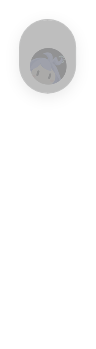
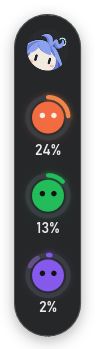
feat: split and merge quota rings during window transitions

diff --git a/src/main.rs b/src/main.rs
@@ -44,6 +44,27 @@ fn arc_percent(percent: f32) -> SharedString {
     format!("M 28 4 A 24 24 0 {large} 1 {end_x:.2} {end_y:.2}").into()
 }
 
+fn arc_trail(start: f32, span: f32) -> SharedString {
+    if !start.is_finite() || !span.is_finite() || span <= 0.0 {
+        return "".into();
+    }
+    let point = |percent: f64| {
+        let angle = (percent * 3.6 - 90.0).to_radians();
+        (28.0 + 24.0 * angle.cos(), 28.0 + 24.0 * angle.sin())
+    };
+    let (x, y) = point(start as f64);
+    if span >= 100.0 {
+        let (mx, my) = point(start as f64 + 50.0);
+        return format!(
+            "M {x:.2} {y:.2} A 24 24 0 0 1 {mx:.2} {my:.2} A 24 24 0 0 1 {x:.2} {y:.2} Z"
+        )
+        .into();
+    }
+    let (ex, ey) = point(start as f64 + span as f64);
+    let large = if span > 50.0 { 1 } else { 0 };
+    format!("M {x:.2} {y:.2} A 24 24 0 {large} 1 {ex:.2} {ey:.2}").into()
+}
+
 fn service(index: usize, visible: bool) -> Service {
     let tint = match index {
         0 => slint::Color::from_rgb_u8(34, 197, 94),
@@ -342,7 +363,7 @@ fn collapse_entry(
     }
     let weak = capsule.as_weak();
     let motion = motion.clone();
-    Timer::single_shot(Duration::from_millis(160), move || {
+    Timer::single_shot(Duration::from_millis(200), move || {
         if motion.0.get() == generation {
             if let Some(c) = weak.upgrade() {
                 let _ = c.hide();
@@ -659,8 +680,13 @@ fn qa_click(window: &slint::Window, x: f32, y: f32) {
 }
 
 #[cfg(debug_assertions)]
-fn qa_entry_frame(window: &slint::Window, name: &str) -> usize {
-    let frame = window.take_snapshot().expect("Entry animation snapshot");
+thread_local! {
+    // Encode after the animation: PNG compression must not delay live samples.
+    static ENTRY_FRAMES: RefCell<Vec<(String, slint::SharedPixelBuffer<slint::Rgba8Pixel>)>> = const { RefCell::new(Vec::new()) };
+}
+
+#[cfg(debug_assertions)]
+fn qa_write_entry_frame(frame: &slint::SharedPixelBuffer<slint::Rgba8Pixel>, name: &str) {
     let mut encoder = png::Encoder::new(
         std::fs::File::create(format!("target/qa-entry-{name}.png")).unwrap(),
         frame.width(),
@@ -673,6 +699,16 @@ fn qa_entry_frame(window: &slint::Window, name: &str) -> usize {
         .unwrap()
         .write_image_data(frame.as_bytes())
         .unwrap();
+}
+
+#[cfg(debug_assertions)]
+fn qa_entry_frame(window: &slint::Window, name: &str) -> usize {
+    let frame = window.take_snapshot().expect("Entry animation snapshot");
+    if std::env::var_os("WACU_QA_ENTRY_MOTION").is_some() {
+        ENTRY_FRAMES.with(|frames| frames.borrow_mut().push((name.into(), frame.clone())));
+    } else {
+        qa_write_entry_frame(&frame, name);
+    }
     // Count the opaque silhouette, excluding transient glow and shadow pixels.
     let width = frame.width() as usize;
     (0..frame.height() as usize)
@@ -721,8 +757,12 @@ fn qa_entry_animation(mini: &MiniWindow, capsule: &CapsuleWindow, settings: &Set
         let heights = Rc::new(RefCell::new(Vec::new()));
         for delay in [40, 60, 100, 120, 160, 200, 260, 300] {
             let c = c.clone();
+            let m = m.clone();
             Timer::single_shot(Duration::from_millis(delay), move || {
                 qa_entry_frame(c.upgrade().unwrap().window(), &format!("open-fx-{delay}"));
+                if delay <= 100 {
+                    qa_entry_frame(m.upgrade().unwrap().window(), &format!("mini-exit-{delay}"));
+                }
             });
         }
         for (delay, name) in [(30, "open-early"), (80, "open-mid"), (225, "open-rest")] {
@@ -742,6 +782,19 @@ fn qa_entry_animation(mini: &MiniWindow, capsule: &CapsuleWindow, settings: &Set
                     if progress > 0.2 && progress < 0.75 {
                         assert!(first > last, "Active ring stages must be staggered");
                     }
+                }
+                let scale = capsule.window().scale_factor();
+                assert!(
+                    capsule.get_shell_height() >= 56.0
+                        && capsule.get_shell_height()
+                            <= capsule.window().size().height as f32 / scale - 24.0 + 0.5
+                );
+                for index in 0..capsule.get_visible_count() {
+                    let spread = capsule.invoke_spread_phase(index);
+                    assert!(
+                        (0.0..=1.04).contains(&spread),
+                        "Spring motion must remain within the window margins"
+                    );
                 }
                 heights
                     .borrow_mut()
@@ -816,10 +869,15 @@ fn qa_entry_close(
         "Collapsing must begin exit animation"
     );
     let heights = Rc::new(RefCell::new(vec![full_height]));
-    for delay in [20, 50, 110, 130] {
+    for delay in [20, 50, 110, 130, 170] {
         let c = c.clone();
+        let m = m.clone();
         Timer::single_shot(Duration::from_millis(delay), move || {
             qa_entry_frame(c.upgrade().unwrap().window(), &format!("close-fx-{delay}"));
+            qa_entry_frame(
+                m.upgrade().unwrap().window(),
+                &format!("mini-return-{delay}"),
+            );
         });
     }
     // Schedule against the actual collapse, so a busy desktop cannot make the
@@ -842,7 +900,7 @@ fn qa_entry_close(
             );
         });
     }
-    Timer::single_shot(Duration::from_millis(200), move || {
+    Timer::single_shot(Duration::from_millis(240), move || {
         let mini = m.upgrade().unwrap();
         assert!(mini.window().is_visible());
         assert!(!c.upgrade().unwrap().window().is_visible());
@@ -1179,7 +1237,9 @@ fn main() -> Result<(), Box<dyn Error>> {
 
     let capsule = CapsuleWindow::new()?;
     capsule.on_render_arc(arc_percent);
+    capsule.on_render_trail(arc_trail);
     let mini = MiniWindow::new()?;
+    mini.on_render_trail(arc_trail);
     mini.set_animated(initial.animations_enabled);
     let menu = EntryMenuWindow::new()?;
     let settings = SettingsWindow::new()?;
@@ -1195,6 +1255,7 @@ fn main() -> Result<(), Box<dyn Error>> {
             .collect::<Vec<_>>(),
     ));
     capsule.set_services(ModelRc::from(model.clone()));
+    mini.set_services(ModelRc::from(model.clone()));
     refresh_model(&model, &capsule, &settings, &initial);
 
     {
@@ -2730,6 +2791,12 @@ fn main() -> Result<(), Box<dyn Error>> {
         });
     }
     slint::run_event_loop()?;
+    #[cfg(debug_assertions)]
+    ENTRY_FRAMES.with(|frames| {
+        for (name, frame) in frames.borrow_mut().drain(..) {
+            qa_write_entry_frame(&frame, &name);
+        }
+    });
     if mini_active && persist_entry_preferences() {
         // Use the logical view saved at the start of a switch: both native
         // windows can still be visible when quitting during the animation.
@@ -2844,6 +2911,18 @@ mod tests {
         assert!(arc_percent(0.5).as_str().ends_with("28.75 4.01"));
         assert!(arc_percent(25.0).as_str().ends_with("52.00 28.00"));
         assert_eq!(arc_percent(100.0), arc_svg(100));
+    }
+
+    #[test]
+    fn moving_ring_trail_wraps_and_retains_clockwise_geometry() {
+        assert_eq!(
+            arc_trail(25.0, 25.0).as_str(),
+            "M 52.00 28.00 A 24 24 0 0 1 28.00 52.00"
+        );
+        assert_eq!(arc_trail(90.0, 20.0), arc_trail(-10.0, 20.0));
+        assert!(arc_trail(10.0, 0.0).is_empty());
+        assert!(arc_trail(f32::NAN, 9.0).is_empty());
+        assert!(arc_trail(10.0, 100.0).as_str().ends_with('Z'));
     }
 
     #[test]

diff --git a/scripts/render-entry-motion.py b/scripts/render-entry-motion.py
@@ -7,6 +7,8 @@ from PIL import Image, ImageDraw, ImageFont
 root = Path(__file__).resolve().parent.parent / "docs" / "screenshots"
 sample = Image.open(root / "entry-open-settled.png").convert("RGBA")
 width, height = sample.size
+mini_sample = Image.open(root / "entry-mini-rest.png").convert("RGBA")
+mini_width, mini_height = mini_sample.size
 font = ImageFont.truetype("C:/Windows/Fonts/msyh.ttc", 12)
 sequence = [(None, 180, "展开")]
 sequence += [(name, duration, "展开") for name, duration in [
@@ -17,21 +19,43 @@ sequence += [(name, duration, "展开") for name, duration in [
 ]]
 sequence += [(name, duration, "收起") for name, duration in [
     ("close-fx-20", 10), ("close-early", 20), ("close-fx-50", 30),
-    ("close-mid", 30), ("close-fx-110", 20), ("close-fx-130", 30),
+    ("close-mid", 30), ("close-fx-110", 20), ("close-fx-130", 40),
+    ("close-fx-170", 30),
 ]]
 sequence += [(None, 450, "收起")]
 frames, durations = [], []
+mini_open = {
+    "open-early": "mini-exit-40", "open-fx-40": "mini-exit-40",
+    "open-fx-60": "mini-exit-60", "open-mid": "mini-exit",
+    "open-fx-100": "mini-exit-100",
+}
+mini_close = {
+    "close-fx-20": "mini-return-20", "close-early": "mini-return-early",
+    "close-fx-50": "mini-return-50", "close-mid": "mini-return-mid",
+    "close-fx-110": "mini-return-110", "close-fx-130": "mini-return-130",
+    "close-fx-170": "mini-return-170",
+}
+capsule_x = mini_width + 48
 for name, duration, label in sequence:
-    canvas = Image.new("RGBA", (width + 48, height + 48), "#101114")
-    ImageDraw.Draw(canvas).text((24, 8), label, font=font, fill="#a1a1aa")
+    canvas = Image.new("RGBA", (mini_width + width + 72, height + 72), "#101114")
+    draw = ImageDraw.Draw(canvas)
+    draw.text((16, 8), label, font=font, fill="#d7dae0")
+    draw.text((16, 32), "Mini", font=font, fill="#a1a1aa")
+    draw.text((capsule_x, 32), "悬浮窗", font=font, fill="#a1a1aa")
+    mini_name = (mini_open.get(name) if name else "mini-rest") if label == "展开" else (mini_close.get(name) if name else "mini-return-rest")
+    if mini_name:
+        mini = Image.open(root / f"entry-{mini_name}.png").convert("RGBA")
+        if mini.size != mini_sample.size:
+            raise ValueError(f"Mini dimensions changed: {mini_name}")
+        canvas.alpha_composite(mini, (16, 56 + round(50 * width / 96 - mini_height / 2)))
     if name:
         frame = Image.open(root / f"entry-{name}.png").convert("RGBA")
         if frame.size != sample.size:
             raise ValueError(f"Frame dimensions changed: {name}")
-        canvas.alpha_composite(frame, (24, 30))
+        canvas.alpha_composite(frame, (capsule_x, 56))
     frames.append(canvas.convert("RGB"))
     durations.append(duration)
-destination = root / "entry-rings.gif"
+destination = root / "entry-ring-split.gif"
 frames[0].save(destination, save_all=True, append_images=frames[1:],
                duration=durations, loop=0, disposal=2)
 with Image.open(destination) as preview:

diff --git a/docs/UI_SPEC.md b/docs/UI_SPEC.md
@@ -8,7 +8,7 @@ Wacu 正式版不使用 Windows 系统托盘、Explorer 注入或系统 Widgets 
 
 两个窗口交替显示，不会持续绘制两个入口。Mini 与胶囊的桌面坐标完全独立：`mini_position` 控制 Mini（首次默认屏幕右下角），`saved_position` 控制纵向胶囊（首次默认同屏右侧中间）。点击切换时读取各自坐标，不通过中心点互相换算；拖动只改变被拖动窗口的坐标。跨屏情况下已保存的位置也按各自屏幕工作区限制。设置“行为”页提供分别恢复 Mini、胶囊默认位置。完整详情仍在胶囊旁，折叠时关闭详情。三档大小只影响胶囊，不改变 Mini 大小。
 
-切换由额度圆环联动。Mini 在 100ms 内缩收淡出，返回用 180ms 贝塞尔曲线回弹；移除额外双层光圈和 Logo 旋转。胶囊外壳保持 180ms 展开、140ms 收起，独立 `ring-progress` 在 220ms 内完成圆环绘制，服务依次错开约 22ms。`QuotaItem.transition` 同时控制底环由空弧到整圈、彩色进度弧由零扫到当前用量、环径由 88% 恢复、中心图标由 90% 恢复，以及百分比淡入。每项只沿自身位置轻移 6px，取消横向散开与独立扫光、粒子、装饰光圈；颜色沿用服务已有配色。收起时圆环从下往上依次回收，再随外壳收拢。圆弧用小数进度生成，百分比和数据模型始终保留真实目标值；完成后使用原有静态路径，不持续调用 Rust 回调或运行动画。服务在外壳进度超过 85% 且自身入场超过 75% 后可点击，关闭动画时主体和圆环同步到达终态。原生窗口尺寸、桌面位置及文字尺寸保持稳定。
+切换采用“圆环拆分 → 接力展开 → 聚合归一”。Mini 在 100ms 内缩收淡出，返回用 180ms 贝塞尔曲线回弹；边缘仅在交接时短暂出现服务配色弧段。胶囊额度环最初叠在顶部头像处，沿同一纵轴错开约 23ms 向各自位置弹出，轻微越过落点后归位；外壳高度由实际圆环下缘驱动。展开时间轴 260ms、收起 180ms，外壳宽度过渡 180ms。亮弧沿真实额度环依次运行，彩色用量弧增长到当前值，图标和百分比随落位显现；收起时从下往上聚合，圆环叠回头像后才淡出。圆弧用小数进度生成，百分比和数据模型保留真实目标值；完成后使用原有静态路径，不持续调用 Rust 回调或运行动画。服务在外壳进度超过 85%、自身位移完成超过 95% 且用量弧超过 85% 后可点击；关闭动画时主体和圆环同步到达终态。原生窗口尺寸、桌面位置及文字尺寸保持稳定，两种形态继续保留独立位置。
 
 交接时两窗短暂重叠绘制，退出动画完成后隐藏原窗口。共享代次标记取消过时的显示／隐藏定时器，允许途中反向切换；退场窗口停止接收点击，服务在展开进度超过 85% 后响应。关闭“显示动画”时同步切换，无交接延时、脉冲或持续帧循环。
 
@@ -27,7 +27,7 @@ Wacu 正式版不使用 Windows 系统托盘、Explorer 注入或系统 Widgets 
 | 设置：左导航、右内容、底部链接 | 常规／服务管理／外观／行为／关于，圆角深色窗口与 Fluent 控件 |
 | 常规设置 | 开机启动、常驻显示、贴边隐藏、显示动画、透明度、左右位置、简体中文、检查更新入口 |
 | 悬停、选中、按下 | 背景微亮、蓝色环绕光晕和箭头、圆环缩小及降低亮度 |
-| 动画与透明度 | Mini／胶囊交接 100–180ms 贝塞尔曲线，其余微动效 100–200ms；动画开关统一控制；透明度保留 65%–100% |
+| 动画与透明度 | Mini／胶囊圆环交接展开 260ms、收起 180ms，其余微动效 100–200ms；动画开关统一控制；透明度保留 65%–100% |
 
 当前只有 Claude Code、Codex、WorkBuddy 三项服务，按原图橙／绿／紫顺序排列；开关仍使用稳定服务 ID，不因排序和过滤错配。没有为了凑满六项添加不存在的服务。
 

diff --git a/docs/WINDOWS_QA.md b/docs/WINDOWS_QA.md
@@ -2,6 +2,18 @@
 
 日期：2026-10-11 · 工程版本：v0.2.0 · 目标：Windows x64。
 
+## 2026-10-11 · 圆环拆分、接力展开与聚合归一
+
+- [x] Mini 边缘在切换时浮现服务配色弧段；三个额度环从顶部头像处依次分离，沿纵轴弹出归位，外壳跟随最下方圆环展开。亮弧沿额度环接力运行，图标和百分比随落位显现。
+- [x] 展开时间轴 260ms、收起 180ms，各行展开起点错开约 23ms；收起时下方环先叠回头像，聚合完成后淡出，200ms 后隐藏原生胶囊窗口。快速反向继续取消过时的隐藏定时器。
+- [x] 静止后回到原有额度环、颜色、文字和窗口位置；动画开关关闭时即时到达终态，无持续帧循环。
+- [x] 20 项 Rust 单测、九组原生动画检查通过，覆盖三档尺寸 × 0／1／3 个服务、环顺序及终态、弹性位移范围、外壳边界、快速反向与关闭动画。
+- [x] Mini、入口控制、顶部头像拖动、用量快览四组 UI 事件回归通过；12 组实际退出重启检查通过，形态与独立位置恢复正常，用户配置未改变。格式检查、Release 构建通过。
+- [x] 动画检查先缓存原生像素帧，退出后再编码 PNG，避免压缩拖慢采样；新增 Mini 交接及后段聚合帧。`entry-ring-split.gif` 并排展示两窗的实际帧，播放间隔仅供观察；旧 GIF 保留为历史记录。
+- [ ] 多屏不同 DPI、旧显卡及真实鼠标连续操作下的视觉节奏仍待人工体验。
+
+![圆环拆分与聚合实际帧](screenshots/entry-ring-split.gif)
+
 ## 2026-10-11 · 额度圆环联动
 
 - [x] 移除独立光圈、扫光、粒子和 Logo 旋转；沿用额度环自己的配色，以同一入场阶段控制底环绘制、彩色弧增长、环径／中心图标恢复和百分比淡入。
@@ -9,7 +21,7 @@
 - [x] 圆弧支持小数进度，动画不改用量模型或百分比目标值；完成后回到静态路径，关闭动画时立即到达终态。
 - [x] 19 项 Rust 单测、九组真实帧动画验收通过：三档尺寸与不同服务数、圆环顺序及终态、快速反向、固定窗口尺寸和动画开关。
 - [x] 四组 UI 事件回归及 12 组实际退出重启检查通过，用户配置未改变；格式检查、Debug / Release 构建通过。
-- [x] 真实帧已归档至通用入口截图，当前 GIF 为 `entry-rings.gif`；此前 `entry-aurora.gif` 保留为历史效果记录。
+- [x] 当轮真实帧已归档至通用入口截图，历史 GIF 为 `entry-rings.gif`；此前 `entry-aurora.gif` 保留为历史效果记录。通用 PNG 随后续动画版本更新。
 
 ![额度圆环联动实际帧](screenshots/entry-rings.gif)
 

diff --git a/README.md b/README.md
@@ -12,7 +12,7 @@ Windows 轻量 AI 用量守望工具。**现已完全重写为 Rust + Slint + Wi
 - 胶囊顶部显示品牌 Logo，下方排列 Claude Code、Codex、WorkBuddy，以双眼角色、带背景轨道的进度环和已用百分比显示演示用量；**已移除底部设置齿轮及其空白**。默认标准档主体宽 72px、圆环 56px；外观页可选择紧凑／标准／宽松三档（窗口宽分别为 88／96／104px）并记住偏好，旧标准升级后自动对应新的紧凑档。
 - 详情与设置采用紧凑排版：快览 296×422px、完整详情 296×612px、设置 460×600px；正文 13–14px、百分比 32px，使用石墨色渐变、圆角控件和柔和阴影。
 - Mini 和完整胶囊**分别保存自己的位置**（`mini_position` 与 `saved_position`）：Mini 默认停在屏幕右下角，胶囊首次展开默认停在右侧中间。两者可分别拖动，展开/收起后各自回到原位置，不再根据另一窗口坐标重新定位。设置 → 行为可以单独恢复 Mini 或胶囊的默认位置。
-- Mini ↔ 胶囊采用额度圆环联动：展开时三个底环按顺序绘成完整圆环，彩色进度弧同步扫到当前用量，中心图标轻微放大落位，百分比随后显现；收起时从下往上回收圆弧。沿用服务自身配色，不再叠加独立光环、扫光或粒子。主体展开 180ms、收起 140ms，圆环在 220ms 内落定；快速反向不会被旧定时器误隐藏，静止后无持续动画。左键松开即启动切换，关闭动效后窗口即时交接。[实际帧预览](docs/screenshots/entry-rings.gif)。
+- Mini ↔ 胶囊采用“圆环拆分 → 接力展开 → 聚合归一”：Mini 边缘短暂出现服务配色的弧段，额度环从头像处依次弹出，外壳跟随最下方圆环展开；亮弧沿额度环接力运行，图标与百分比随落位显现。收起时下方圆环先回到主环，再恢复 Mini。展开约 260ms、收起约 180ms，沿用服务自身配色；快速反向不会被旧定时器误隐藏，静止后无持续动画。左键松开即启动切换，关闭动效后窗口即时交接。[实际帧预览](docs/screenshots/entry-ring-split.gif)。
 - 进度环使用 Slint 原生路径与圆头端点；详情保留短时淡入淡出，服务仍可显示选中高亮。
 - 点击服务先弹出窄版用量快览，再展开带示意趋势图的完整详情。
 - 深色分栏设置保留开机启动、服务管理、大小、动画、透明度和左右停靠位置。开机启动使用当前用户 Windows Run 注册表项，默认不启用；Mini 不启用旧版托盘弹出/贴边隐藏行为。
